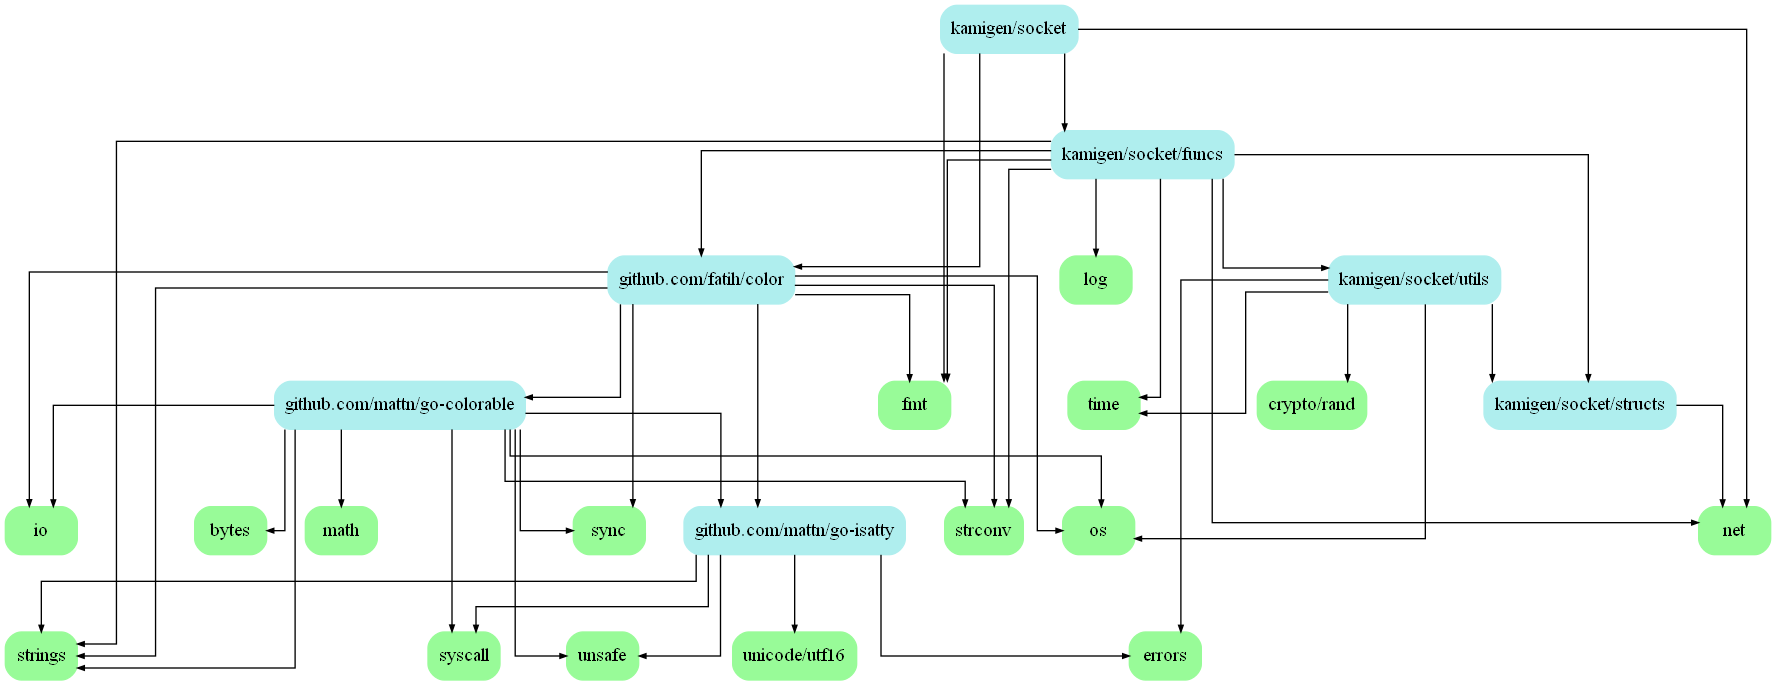
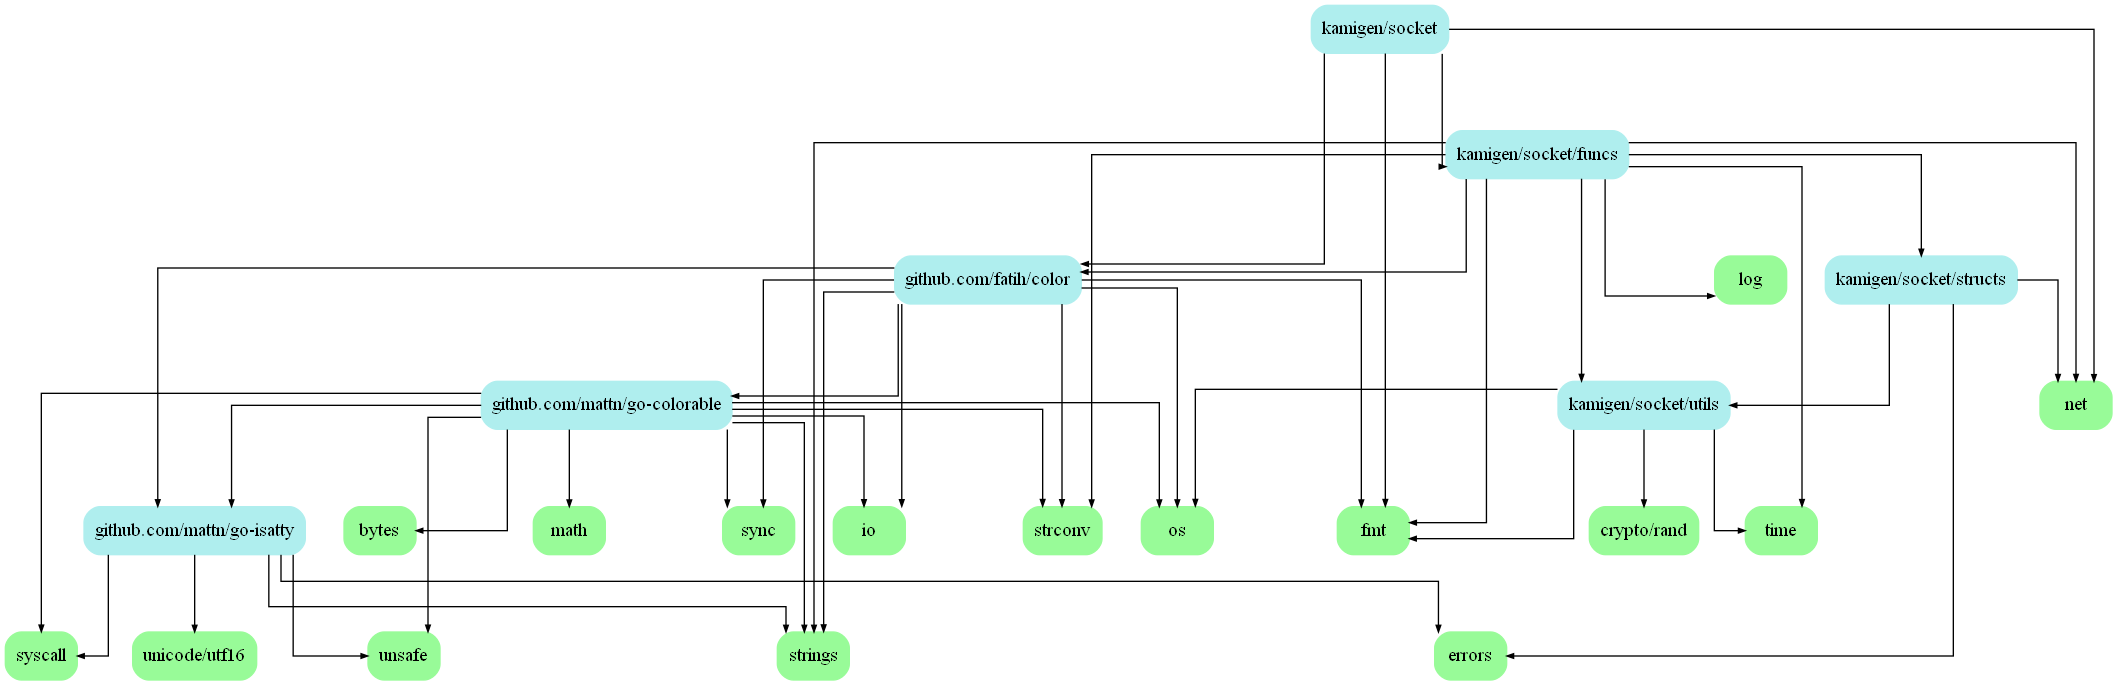
Fix: import cycle

diff --git a/structs/Clients.go b/structs/Clients.go
@@ -1,3 +1,29 @@
 package structs
 
+import "errors"
+
 var Clients []*Client
+
+// GetClient Get pointer of struct by name
+func GetClient(name string) (*Client, error) {
+	clients := &Clients
+	for _, v := range *clients {
+		if v.Name == name {
+			return v, nil
+		}
+	}
+	return &Client{}, errors.New("client not found")
+}
+
+// BroadcastWorkers Broadcast message to all workers
+func BroadcastWorkers(message []byte) error {
+	clients := &Clients
+	for _, c := range *clients {
+		if _, err := c.Conn.Write(message); err != nil {
+			return err
+		} else if _, err := c.Conn.Write([]byte{'\n'}); err != nil {
+			return err
+		}
+	}
+	return nil
+}

diff --git a/funcs/HandleCommand.go b/funcs/HandleCommand.go
@@ -109,12 +109,12 @@ func HandleCommand(connection *net.Conn, command *[]byte, needFragmentation bool
 		{
 			utils.LogFile(false, "[INFO]", "Received command:", c.GetPacketName())
 			fmt.Println("Client side")
-			utils.BroadcastListeners(message)
+			structs.BroadcastListeners(message)
 		}
 	case 0x02:
 		{
 			// Game side
-			c, err := utils.GetClient(string(args[0]))
+			c, err := structs.GetClient(string(args[0]))
 			if err != nil {
 				con.Write([]byte{structs.Packets["ERROR"]})
 				fmt.Println(err)

diff --git a/structs/Listeners.go b/structs/Listeners.go
@@ -1,3 +1,16 @@
 package structs
 
 var Listeners []*Listener
+
+// BroadcastListeners Broadcast message to all listeners
+func BroadcastListeners(message []byte) error {
+	listeners := &Listeners
+	for _, c := range *listeners {
+		if _, err := c.Conn.Write(message); err != nil {
+			return err
+		} else if _, err := c.Conn.Write([]byte{'\n'}); err != nil {
+			return err
+		}
+	}
+	return nil
+}

diff --git a/utils/IOLogs.go b/utils/IOLogs.go
@@ -36,9 +36,6 @@ func LogFile(con bool, message ...string) error {
 				fmt.Println(s)
 			}
 		}
-		if _, err := f.WriteString("\n"); err != nil {
-			return err
-		}
 		return nil
 	}
 }

diff --git a/structs/Client.go b/structs/Client.go
@@ -1,6 +1,8 @@
 package structs
 
-import "net"
+import (
+	"net"
+)
 
 type Client struct {
 	// The name of the client.
